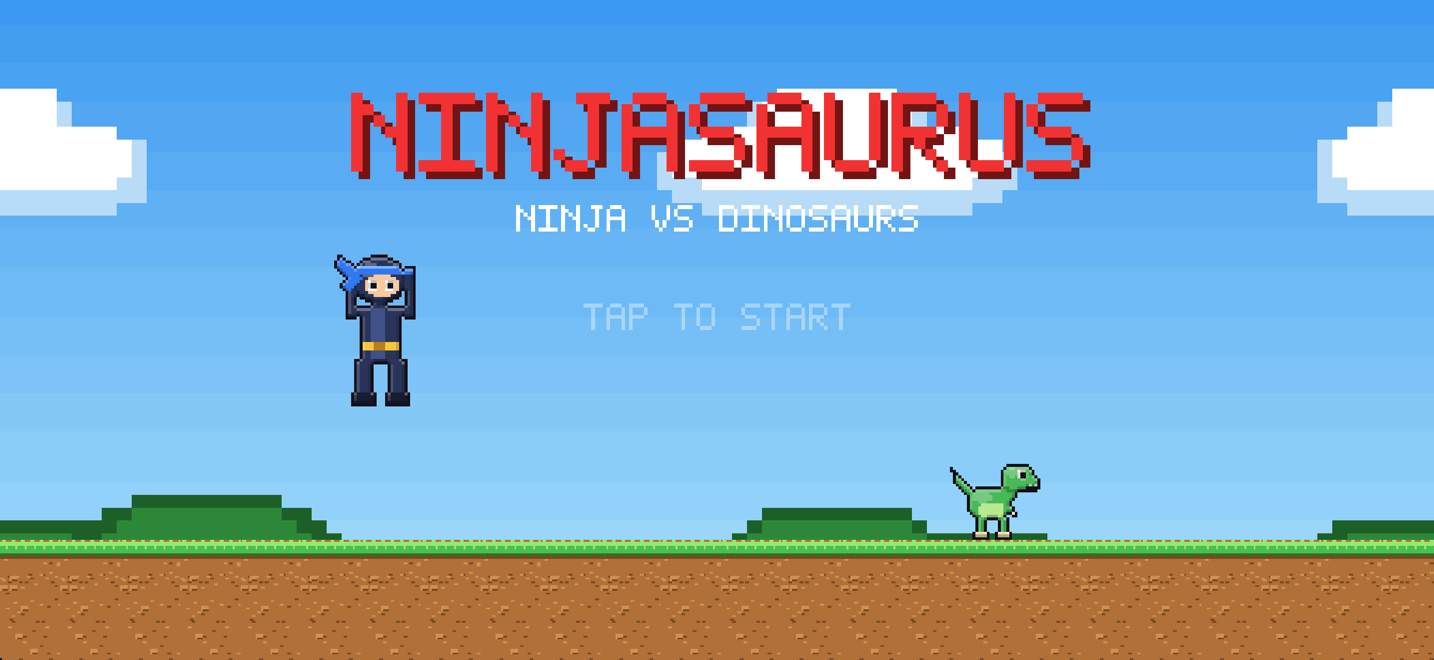
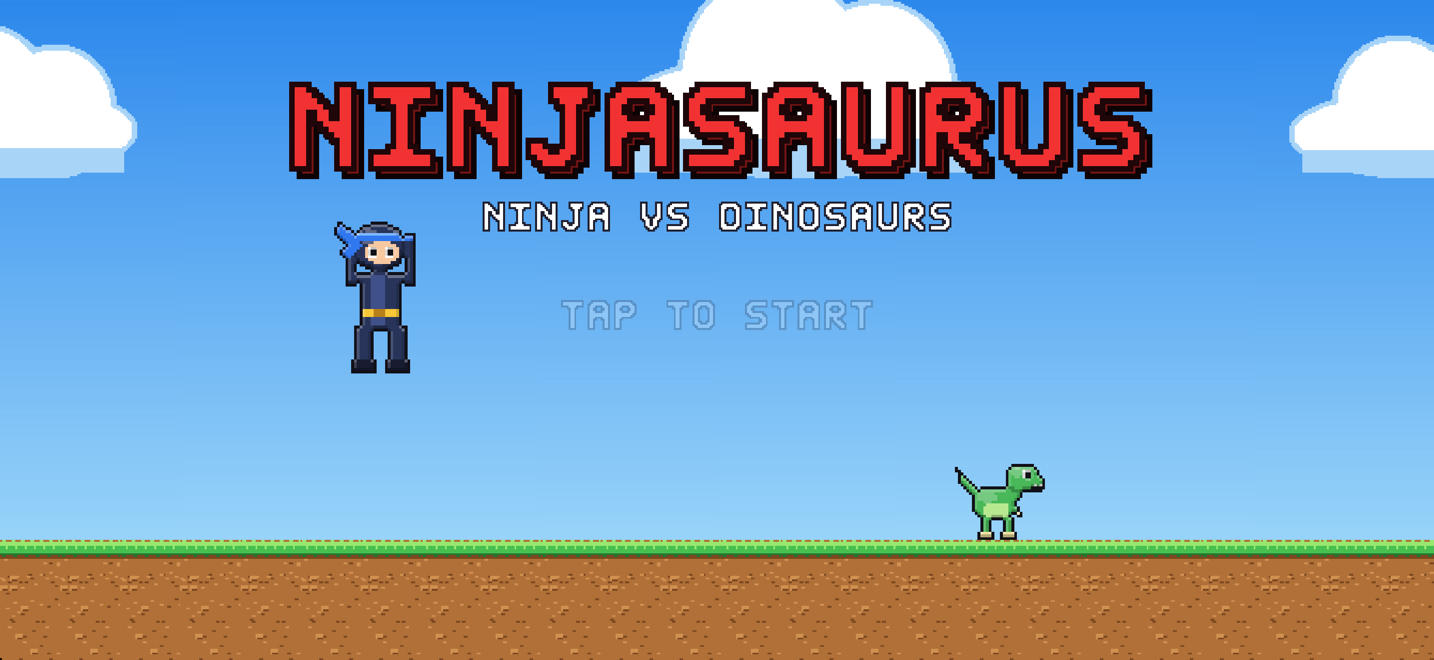
feat(backgrounds): repaint parallax layers at sprite density with shading and outlines

diff --git a/Sources/Ninjasaurus/Rendering/BackgroundPainter.swift b/Sources/Ninjasaurus/Rendering/BackgroundPainter.swift
@@ -1,6 +1,7 @@
 import CoreGraphics
 import SpriteKit
 
+/// Parallax backdrops drawn with Core Graphics at the sprites' pixel density.
 @MainActor
 enum BackgroundPainter {
     struct Layers {
@@ -12,24 +13,23 @@ enum BackgroundPainter {
         let tileWidth: CGFloat = 512
     }
 
-    private static let scale = 4
-    private static let layerWidth = 128
-    private static let layerHeight = 52
+    private static let pixelsPerUnit: CGFloat = 2
+    private static let layerWidth: CGFloat = 512
+    private static let layerHeight: CGFloat = 176
 
     static func layers(for theme: Theme) -> Layers {
         Layers(sky: sky(for: theme), far: far(for: theme), near: near(for: theme))
     }
 
-    // MARK: - Drawing helpers
-
-    private static func draw(width: Int, height: Int, _ body: (CGContext) -> Void) -> SKTexture {
+    private static func draw(width: CGFloat, height: CGFloat, _ body: (CGContext) -> Void) -> SKTexture {
         let context = CGContext(
-            data: nil, width: width, height: height, bitsPerComponent: 8, bytesPerRow: 0,
+            data: nil, width: Int(width * pixelsPerUnit), height: Int(height * pixelsPerUnit), bitsPerComponent: 8, bytesPerRow: 0,
             space: CGColorSpace(name: CGColorSpace.sRGB)!,
             bitmapInfo: CGImageAlphaInfo.premultipliedLast.rawValue
         )!
         context.setAllowsAntialiasing(false)
         context.setShouldAntialias(false)
+        context.scaleBy(x: pixelsPerUnit, y: pixelsPerUnit)
         body(context)
         let texture = SKTexture(cgImage: context.makeImage()!)
         texture.filteringMode = .nearest
@@ -45,27 +45,43 @@ enum BackgroundPainter {
         )
     }
 
-    private static func gradient(_ context: CGContext, top: UInt32, bottom: UInt32, height: Int) {
-        let steps = 16
-        for i in 0..<steps {
-            let t = CGFloat(i) / CGFloat(steps - 1)
-            let mix = { (a: UInt32, b: UInt32, shift: UInt32) -> CGFloat in
-                let ca = CGFloat((a >> shift) & 0xFF), cb = CGFloat((b >> shift) & 0xFF)
-                return (ca + (cb - ca) * t) / 255
-            }
-            context.setFillColor(CGColor(srgbRed: mix(top, bottom, 16), green: mix(top, bottom, 8), blue: mix(top, bottom, 0), alpha: 1))
-            let bandHeight = CGFloat(height) / CGFloat(steps)
-            context.fill(CGRect(x: 0, y: CGFloat(height) - CGFloat(i + 1) * bandHeight, width: 1, height: bandHeight + 1))
+    private static func gradient(_ context: CGContext, top: UInt32, bottom: UInt32, height: CGFloat) {
+        let space = CGColorSpace(name: CGColorSpace.sRGB)!
+        let gradient = CGGradient(colorsSpace: space, colors: [color(top), color(bottom)] as CFArray, locations: [0, 1])!
+        context.drawLinearGradient(gradient, start: CGPoint(x: 0, y: height), end: CGPoint(x: 0, y: 0), options: [])
+    }
+
+    /// Ellipse with an outline, a body colour and a highlight offset up and left.
+    private static func blob(_ context: CGContext, x: CGFloat, y: CGFloat, w: CGFloat, h: CGFloat, outline: UInt32, body: UInt32, light: UInt32) {
+        context.setFillColor(color(outline))
+        context.fillEllipse(in: CGRect(x: x - 1.5, y: y - 1.5, width: w + 3, height: h + 3))
+        context.setFillColor(color(body))
+        context.fillEllipse(in: CGRect(x: x, y: y, width: w, height: h))
+        context.setFillColor(color(light))
+        context.fillEllipse(in: CGRect(x: x + w * 0.12, y: y + h * 0.3, width: w * 0.6, height: h * 0.55))
+    }
+
+    private static func cloud(_ context: CGContext, x: CGFloat, y: CGFloat, w: CGFloat, shade: UInt32, body: UInt32) {
+        let h = w * 0.32
+        for (dx, dw, dh) in [(0.0, 1.0, 1.0), (0.18, 0.5, 1.7), (0.5, 0.42, 1.45)] {
+            context.setFillColor(color(shade))
+            context.fillEllipse(in: CGRect(x: x + w * dx - 1.5, y: y - 1.5, width: w * dw + 3, height: h * dh + 3))
         }
+        for (dx, dw, dh) in [(0.0, 1.0, 1.0), (0.18, 0.5, 1.7), (0.5, 0.42, 1.45)] {
+            context.setFillColor(color(body))
+            context.fillEllipse(in: CGRect(x: x + w * dx, y: y, width: w * dw, height: h * dh))
+        }
+        context.setFillColor(color(shade))
+        context.fill(CGRect(x: x + 2, y: y, width: w - 4, height: h * 0.28))
     }
 
     private static func sky(for theme: Theme) -> SKTexture {
-        draw(width: 1, height: layerHeight) { context in
+        draw(width: 4, height: layerHeight) { context in
             switch theme {
-            case .grass: gradient(context, top: 0x3C98F0, bottom: 0xA8E0FC, height: layerHeight)
-            case .cave: gradient(context, top: 0x101828, bottom: 0x283858, height: layerHeight)
-            case .sky: gradient(context, top: 0x2060D0, bottom: 0xC8ECFC, height: layerHeight)
-            case .lava: gradient(context, top: 0x200810, bottom: 0x602018, height: layerHeight)
+            case .grass: gradient(context, top: 0x2C88EC, bottom: 0xB0E4FC, height: layerHeight)
+            case .cave: gradient(context, top: 0x0C1424, bottom: 0x2C3C60, height: layerHeight)
+            case .sky: gradient(context, top: 0x1850C8, bottom: 0xD0F0FC, height: layerHeight)
+            case .lava: gradient(context, top: 0x180408, bottom: 0x6C2418, height: layerHeight)
             }
         }
     }
@@ -74,46 +90,55 @@ enum BackgroundPainter {
         draw(width: layerWidth, height: layerHeight) { context in
             switch theme {
             case .grass:
-                for (x, r) in [(10, 22), (48, 30), (92, 18), (124, 26)] {
-                    context.setFillColor(color(0x2C7838))
-                    context.fillEllipse(in: CGRect(x: x - r - 1, y: 7 - r / 2, width: 2 * r + 2, height: r + r / 2 + 1))
-                    context.setFillColor(color(0x58B858))
-                    context.fillEllipse(in: CGRect(x: x - r, y: 8 - r / 2, width: 2 * r, height: r + r / 2))
-                    context.setFillColor(color(0x80D870))
-                    context.fillEllipse(in: CGRect(x: x - r / 2, y: 8 + r / 4, width: r, height: r / 2))
+                for (x, w, h) in [(-40.0, 190.0, 96.0), (140.0, 260.0, 120.0), (350.0, 170.0, 84.0), (470.0, 150.0, 70.0)] {
+                    blob(context, x: x, y: 22 - h / 2, w: w, h: h, outline: 0x246830, body: 0x50B050, light: 0x78D068)
                 }
-                context.setFillColor(color(0x2C7838))
-                context.fill(CGRect(x: 0, y: 0, width: layerWidth, height: 9))
-                context.setFillColor(color(0x489848))
-                context.fill(CGRect(x: 0, y: 0, width: layerWidth, height: 7))
+                context.setFillColor(color(0x246830))
+                context.fill(CGRect(x: 0, y: 0, width: layerWidth, height: 26))
+                context.setFillColor(color(0x3C9440))
+                context.fill(CGRect(x: 0, y: 0, width: layerWidth, height: 22))
             case .cave:
-                context.setFillColor(color(0x1C2840))
-                for x in stride(from: 0, to: layerWidth, by: 12) {
-                    let h = 10 + (x * 7) % 14
-                    context.move(to: CGPoint(x: x, y: layerHeight))
-                    context.addLine(to: CGPoint(x: x + 12, y: layerHeight))
-                    context.addLine(to: CGPoint(x: x + 6, y: layerHeight - h))
-                    context.closePath()
-                    context.fillPath()
+                context.setFillColor(color(0x1A2640))
+                context.fill(CGRect(x: 0, y: 150, width: layerWidth, height: 26))
+                for x in stride(from: CGFloat(0), to: layerWidth, by: 44) {
+                    let h = 34 + CGFloat(Int(x * 7) % 30)
+                    for (inset, hex) in [(0.0, 0x1A2640), (5.0, 0x263858)] {
+                        context.setFillColor(color(UInt32(hex)))
+                        context.move(to: CGPoint(x: x + inset, y: 176))
+                        context.addLine(to: CGPoint(x: x + 44 - inset, y: 176))
+                        context.addLine(to: CGPoint(x: x + 22, y: 176 - h + inset * 1.5))
+                        context.closePath()
+                        context.fillPath()
+                    }
                 }
-                context.fill(CGRect(x: 0, y: 0, width: layerWidth, height: 6))
+                context.setFillColor(color(0x1A2640))
+                context.fill(CGRect(x: 0, y: 0, width: layerWidth, height: 14))
+                for (x, h) in [(60.0, 20.0), (210.0, 26.0), (330.0, 16.0), (450.0, 22.0)] {
+                    context.setFillColor(color(0x50B8D8, alpha: 0.35))
+                    context.fillEllipse(in: CGRect(x: x - 16, y: 4, width: 32, height: h))
+                    context.setFillColor(color(0x70D8F0))
+                    context.move(to: CGPoint(x: x - 6, y: 14)); context.addLine(to: CGPoint(x: x, y: 14 + h)); context.addLine(to: CGPoint(x: x + 6, y: 14)); context.closePath(); context.fillPath()
+                }
             case .sky:
-                context.setFillColor(color(0xFFFFFF, alpha: 0.8))
-                for (x, w) in [(4, 26), (44, 34), (90, 22), (112, 20)] {
-                    context.fillEllipse(in: CGRect(x: x, y: 4, width: w, height: 8))
-                    context.fillEllipse(in: CGRect(x: x + w / 4, y: 7, width: w / 2, height: 8))
+                for (x, w) in [(10.0, 110.0), (170.0, 150.0), (350.0, 100.0), (460.0, 90.0)] {
+                    cloud(context, x: x, y: 8, w: w, shade: 0x8CC0F0, body: 0xE8F4FF)
                 }
             case .lava:
-                context.setFillColor(color(0x381010))
-                for x in stride(from: 0, to: layerWidth, by: 16) {
-                    let h = 12 + (x * 5) % 16
-                    context.move(to: CGPoint(x: x, y: 0))
-                    context.addLine(to: CGPoint(x: x + 8, y: h))
-                    context.addLine(to: CGPoint(x: x + 16, y: 0))
-                    context.closePath()
-                    context.fillPath()
+                for x in stride(from: CGFloat(0), to: layerWidth, by: 64) {
+                    let h = 44 + CGFloat(Int(x * 5) % 50)
+                    for (inset, hex) in [(0.0, 0x2C0C10), (5.0, 0x401418)] {
+                        context.setFillColor(color(UInt32(hex)))
+                        context.move(to: CGPoint(x: x - inset, y: 0))
+                        context.addLine(to: CGPoint(x: x + 32, y: h - inset * 1.5))
+                        context.addLine(to: CGPoint(x: x + 64 + inset, y: 0))
+                        context.closePath()
+                        context.fillPath()
+                    }
                 }
-                context.fill(CGRect(x: 0, y: 0, width: layerWidth, height: 5))
+                context.setFillColor(color(0xF06020, alpha: 0.5))
+                context.fill(CGRect(x: 0, y: 14, width: layerWidth, height: 2))
+                context.setFillColor(color(0x2C0C10))
+                context.fill(CGRect(x: 0, y: 0, width: layerWidth, height: 14))
             }
         }
     }
@@ -122,45 +147,41 @@ enum BackgroundPainter {
         draw(width: layerWidth, height: layerHeight) { context in
             switch theme {
             case .grass:
-                for (x, r) in [(20, 6), (30, 8), (72, 7), (82, 5), (110, 6)] {
-                    context.setFillColor(color(0x1C6028))
-                    context.fillEllipse(in: CGRect(x: x - r - 1, y: 0, width: 2 * r + 2, height: r + 5))
-                    context.setFillColor(color(0x2C8838))
-                    context.fillEllipse(in: CGRect(x: x - r, y: 0, width: 2 * r, height: r + 4))
-                    context.setFillColor(color(0x50B048))
-                    context.fillEllipse(in: CGRect(x: x - r / 2, y: 2, width: r, height: r / 2 + 1))
+                for (x, r) in [(60.0, 22.0), (100.0, 30.0), (280.0, 26.0), (320.0, 18.0), (440.0, 24.0)] {
+                    blob(context, x: x - r, y: -r * 0.4, w: r * 2, h: r * 1.3, outline: 0x1C6028, body: 0x2C8C3C, light: 0x48B050)
                 }
-                for (x, w) in [(8, 18), (60, 24), (104, 16)] {
-                    context.setFillColor(color(0xB8DCF8))
-                    context.fillEllipse(in: CGRect(x: x, y: 35, width: w, height: 7))
-                    context.fillEllipse(in: CGRect(x: x + w / 4, y: 37, width: w / 2, height: 8))
-                    context.setFillColor(color(0xFFFFFF))
-                    context.fillEllipse(in: CGRect(x: x + 1, y: 37, width: w - 2, height: 5))
-                    context.fillEllipse(in: CGRect(x: x + w / 4 + 1, y: 39, width: w / 2 - 2, height: 6))
+                for (x, w) in [(30.0, 70.0), (230.0, 96.0), (410.0, 64.0)] {
+                    cloud(context, x: x, y: 130, w: w, shade: 0xA8D4F8, body: 0xFFFFFF)
                 }
             case .cave:
-                context.setFillColor(color(0x60C8E8, alpha: 0.9))
-                for (x, h) in [(14, 6), (52, 9), (88, 5), (118, 7)] {
-                    context.move(to: CGPoint(x: x, y: 0))
-                    context.addLine(to: CGPoint(x: x + 3, y: h))
-                    context.addLine(to: CGPoint(x: x + 6, y: 0))
-                    context.closePath()
-                    context.fillPath()
+                for (x, h) in [(50.0, 26.0), (200.0, 36.0), (340.0, 22.0), (470.0, 30.0)] {
+                    context.setFillColor(color(0x60D0F0, alpha: 0.25))
+                    context.fillEllipse(in: CGRect(x: x - 22, y: 0, width: 44, height: h + 10))
+                    for (dx, dh, hex) in [(-9.0, 0.6, 0x3898B8), (0.0, 1.0, 0x70D8F0), (10.0, 0.75, 0x50B8D8)] {
+                        context.setFillColor(color(UInt32(hex)))
+                        context.move(to: CGPoint(x: x + dx - 5, y: 0)); context.addLine(to: CGPoint(x: x + dx, y: h * dh)); context.addLine(to: CGPoint(x: x + dx + 5, y: 0)); context.closePath(); context.fillPath()
+                        context.setFillColor(color(0xC8F4FF))
+                        context.move(to: CGPoint(x: x + dx - 1, y: 0)); context.addLine(to: CGPoint(x: x + dx, y: h * dh)); context.addLine(to: CGPoint(x: x + dx + 1, y: 0)); context.closePath(); context.fillPath()
+                    }
                 }
             case .sky:
-                context.setFillColor(color(0xFFFFFF))
-                for (x, w) in [(0, 30), (58, 40), (104, 24)] {
-                    context.fillEllipse(in: CGRect(x: x, y: 20, width: w, height: 10))
-                    context.fillEllipse(in: CGRect(x: x + w / 4, y: 24, width: w / 2, height: 10))
+                for (x, w) in [(0.0, 130.0), (220.0, 170.0), (420.0, 120.0)] {
+                    cloud(context, x: x, y: 60, w: w, shade: 0xB0D8F8, body: 0xFFFFFF)
                 }
             case .lava:
-                context.setFillColor(color(0xF89030, alpha: 0.9))
-                for (x, y) in [(10, 12), (34, 30), (58, 18), (80, 40), (100, 22), (120, 34)] {
-                    context.fill(CGRect(x: x, y: y, width: 1, height: 1))
+                for (x, w, h) in [(20.0, 30.0, 16.0), (150.0, 44.0, 22.0), (300.0, 26.0, 12.0), (430.0, 40.0, 18.0)] {
+                    context.setFillColor(color(0x2C0C10))
+                    context.fill(CGRect(x: x - 2, y: 0, width: w + 4, height: h + 2))
+                    context.setFillColor(color(0x501C1C))
+                    context.fill(CGRect(x: x, y: 0, width: w, height: h))
+                    context.setFillColor(color(0x6C2C28))
+                    context.fill(CGRect(x: x + 3, y: h - 4, width: w - 6, height: 3))
                 }
-                context.setFillColor(color(0x501818))
-                for x in stride(from: 4, to: layerWidth, by: 24) {
-                    context.fill(CGRect(x: x, y: 0, width: 6, height: 4 + (x % 5)))
+                for (x, y, s) in [(40.0, 40.0, 3.0), (130.0, 110.0, 2.0), (230.0, 70.0, 3.0), (320.0, 150.0, 2.0), (400.0, 90.0, 3.0), (480.0, 130.0, 2.0), (90.0, 160.0, 2.0)] {
+                    context.setFillColor(color(0xF89030, alpha: 0.6))
+                    context.fill(CGRect(x: x - 1, y: y - 1, width: s + 2, height: s + 2))
+                    context.setFillColor(color(0xFCC040))
+                    context.fill(CGRect(x: x, y: y, width: s, height: s))
                 }
             }
         }
